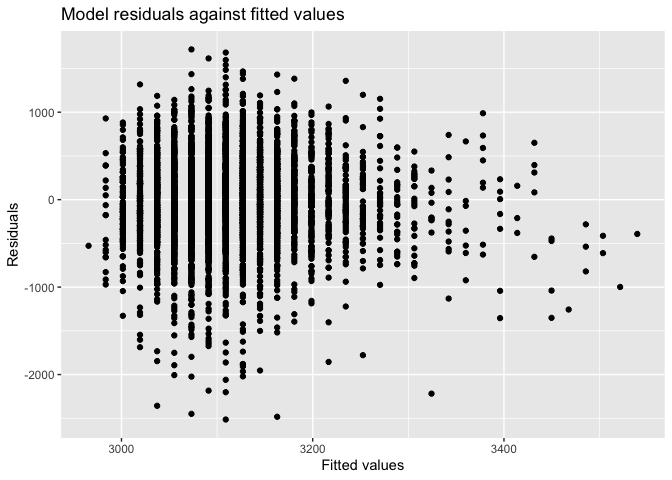
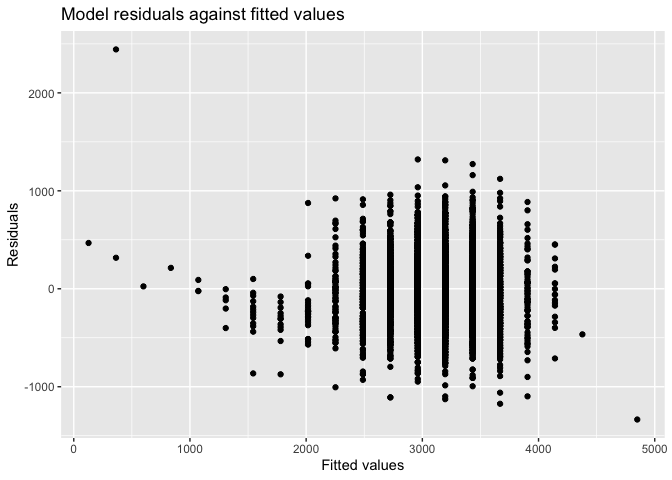
clarify the hypothesis and adjusted the predictor

diff --git a/p8105_hw6_ra2965.md b/p8105_hw6_ra2965.md
@@ -33,10 +33,10 @@ There is no missing values.
 
 ### Propose a regression model for birthweight
 
-I hypothesized that the baby birthweight can be associated with momage: mother’s age at delivery (years):
+The babies with larger head circumference may have higher birthweight. I hypothesized that the baby birthweight can be associated with bhead: baby’s head circumference at birth (centimeters):
 
 ``` r
-fit = lm(bwt ~ momage, data = bwt)
+fit = lm(bwt ~ bhead, data = bwt)
 ```
 
 ``` r
@@ -46,10 +46,12 @@ fit %>%
 ```
 
     ## # A tibble: 2 x 5
-    ##   term        estimate std.error statistic  p.value
-    ##   <chr>          <dbl>     <dbl>     <dbl>    <dbl>
-    ## 1 (Intercept)   2750.      41.0      67.0  0.      
-    ## 2 momage          17.9      1.99      9.03 2.57e-19
+    ##   term        estimate std.error statistic p.value
+    ##   <chr>          <dbl>     <dbl>     <dbl>   <dbl>
+    ## 1 (Intercept)   -4831.    107.       -45.0       0
+    ## 2 bhead           236.      3.19      74.0       0
+
+I tried to make a linear regression model with a predictor of momage, which is baby’s head circumference at birth (cm), and a outcome of baby birthweight(gram). The p value of the beta of momage is &lt;0.05, which means that the baby birthweight(gram) is significantly associated with baby’s head circumference at birth (cm) at 5% level of significance.
 
 ``` r
 fit %>% 
@@ -58,9 +60,9 @@ fit %>%
 ```
 
     ## # A tibble: 1 x 11
-    ##   r.squared adj.r.squared sigma statistic  p.value    df  logLik    AIC
-    ##       <dbl>         <dbl> <dbl>     <dbl>    <dbl> <int>   <dbl>  <dbl>
-    ## 1    0.0184        0.0182  507.      81.5 2.57e-19     2 -33208. 66422.
+    ##   r.squared adj.r.squared sigma statistic p.value    df  logLik    AIC
+    ##       <dbl>         <dbl> <dbl>     <dbl>   <dbl> <int>   <dbl>  <dbl>
+    ## 1     0.558         0.558  340.     5483.       0     2 -31475. 62957.
     ## # … with 3 more variables: BIC <dbl>, deviance <dbl>, df.residual <int>
 
 ``` r
